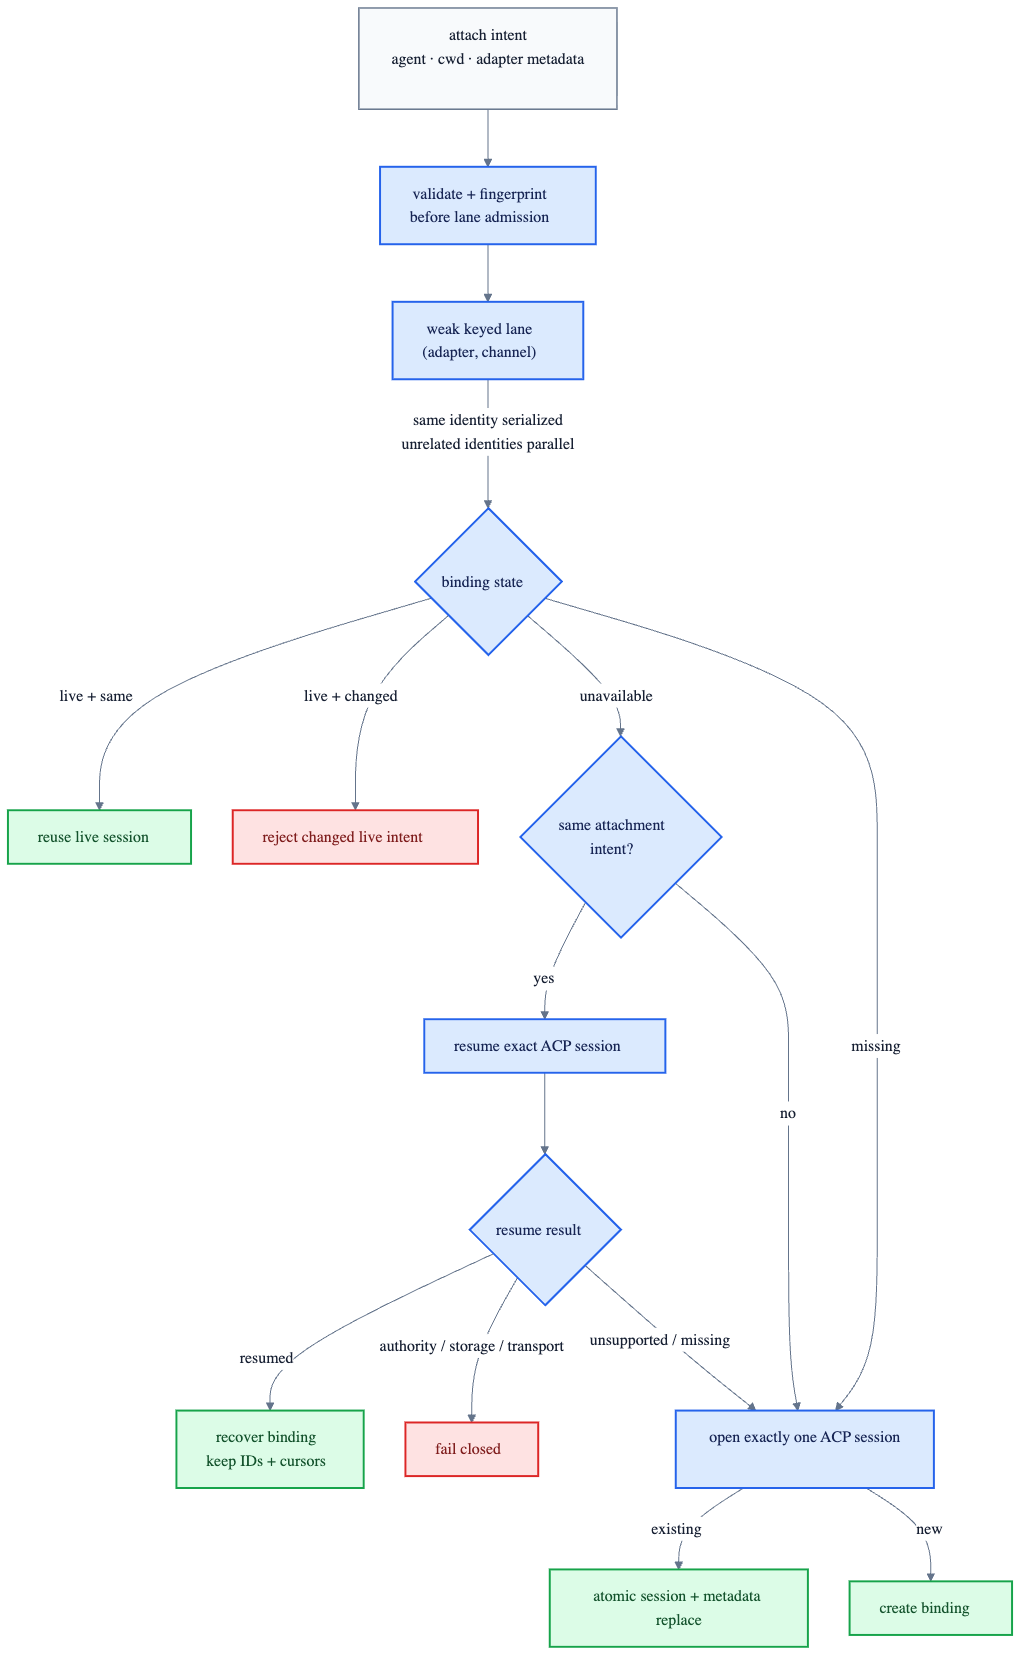
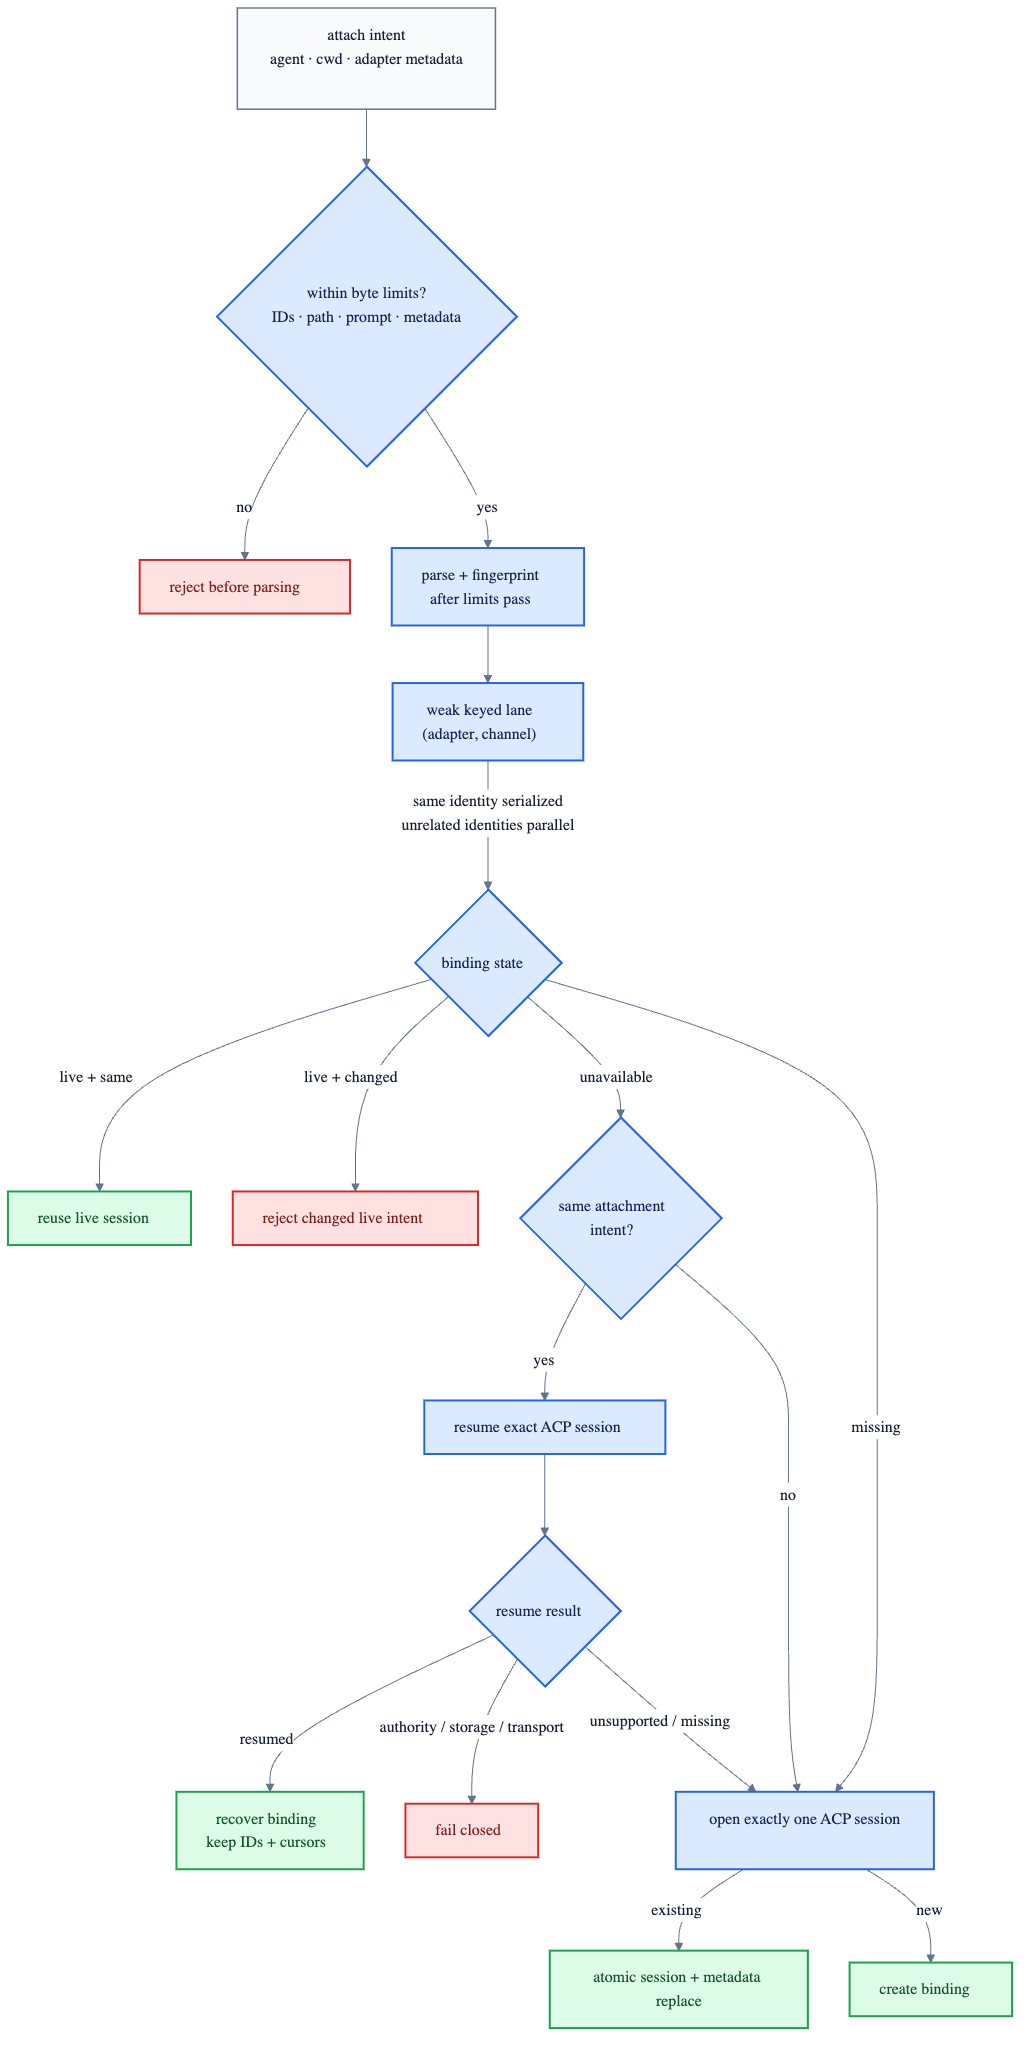
fix(v2): bound channel attachment ingress

diff --git a/v2/channel-gateway/implementation/src/lib.rs b/v2/channel-gateway/implementation/src/lib.rs
@@ -20,6 +20,12 @@ use tokio::sync::{Mutex, OwnedMutexGuard};
 
 use generated::{AgentHostImport, NativeChannelImport};
 
+const MAX_ATTACHMENT_IDENTIFIER_BYTES: usize = 256;
+const MAX_WORKING_DIRECTORY_BYTES: usize = 4 * 1024;
+const MAX_SESSION_METADATA_BYTES: usize = 64 * 1024;
+const MAX_NATIVE_CHANNEL_METADATA_BYTES: usize = 64 * 1024;
+const MAX_BOOTSTRAP_PROMPT_BYTES: usize = 2 * 1024 * 1024;
+
 /// Stateless lifecycle owner waiting for composition-selected imports.
 pub struct ChannelGateway {
     agent_host: AgentHostImport,
@@ -244,10 +250,18 @@ impl AttachmentLocks {
 }
 
 fn attachment_envelope(request: &AttachChannelRequest) -> Result<String, ChannelGatewayError> {
-    if request.channel_id.trim().is_empty()
-        || request.adapter_id.trim().is_empty()
-        || request.agent_id.trim().is_empty()
+    if !valid_identifier(&request.channel_id)
+        || !valid_identifier(&request.adapter_id)
+        || !valid_identifier(&request.agent_id)
+        || request.working_directory.trim().is_empty()
+        || request.working_directory.len() > MAX_WORKING_DIRECTORY_BYTES
         || !Path::new(&request.working_directory).is_absolute()
+        || request
+            .bootstrap_prompt
+            .as_ref()
+            .is_some_and(|prompt| prompt.len() > MAX_BOOTSTRAP_PROMPT_BYTES)
+        || request.session_metadata_json.len() > MAX_SESSION_METADATA_BYTES
+        || request.native_channel_json.len() > MAX_NATIVE_CHANNEL_METADATA_BYTES
     {
         return Err(ChannelGatewayError::InvalidRequest);
     }
@@ -272,6 +286,10 @@ fn attachment_envelope(request: &AttachChannelRequest) -> Result<String, Channel
         "crabAttachment": {"schema": 1, "fingerprint": fingerprint},
     }))
     .map_err(|_| ChannelGatewayError::InvalidRequest)
+}
+
+fn valid_identifier(value: &str) -> bool {
+    !value.trim().is_empty() && value.len() <= MAX_ATTACHMENT_IDENTIFIER_BYTES
 }
 
 fn attachment(
@@ -328,7 +346,12 @@ mod tests {
     use boxology_contract::CapabilityId;
     use tokio::time::timeout;
 
-    use super::{AttachmentLocks, generated};
+    use super::{
+        AttachChannelRequest, AttachmentLocks, ChannelGatewayError,
+        MAX_ATTACHMENT_IDENTIFIER_BYTES, MAX_BOOTSTRAP_PROMPT_BYTES,
+        MAX_NATIVE_CHANNEL_METADATA_BYTES, MAX_SESSION_METADATA_BYTES, MAX_WORKING_DIRECTORY_BYTES,
+        attachment_envelope, generated,
+    };
 
     #[test]
     fn contract_exposes_only_idempotent_attachment() {
@@ -379,5 +402,82 @@ mod tests {
         let fresh = locks.lock("t3code", "fresh").await;
         assert_eq!(locks.len(), 1);
         drop(fresh);
+    }
+
+    #[test]
+    fn attachment_admission_accepts_exact_field_limits() {
+        let request = AttachChannelRequest {
+            channel_id: "c".repeat(MAX_ATTACHMENT_IDENTIFIER_BYTES),
+            adapter_id: "a".repeat(MAX_ATTACHMENT_IDENTIFIER_BYTES),
+            agent_id: "g".repeat(MAX_ATTACHMENT_IDENTIFIER_BYTES),
+            working_directory: format!("/{}", "w".repeat(MAX_WORKING_DIRECTORY_BYTES - 1)),
+            bootstrap_prompt: Some("p".repeat(MAX_BOOTSTRAP_PROMPT_BYTES)),
+            session_metadata_json: object_json_with_len(MAX_SESSION_METADATA_BYTES),
+            native_channel_json: object_json_with_len(MAX_NATIVE_CHANNEL_METADATA_BYTES),
+        };
+
+        attachment_envelope(&request).expect("exact byte limits are admitted");
+    }
+
+    #[test]
+    fn attachment_admission_rejects_each_oversized_field() {
+        let request = valid_request();
+        let cases = [
+            AttachChannelRequest {
+                channel_id: "c".repeat(MAX_ATTACHMENT_IDENTIFIER_BYTES + 1),
+                ..request.clone()
+            },
+            AttachChannelRequest {
+                adapter_id: "a".repeat(MAX_ATTACHMENT_IDENTIFIER_BYTES + 1),
+                ..request.clone()
+            },
+            AttachChannelRequest {
+                agent_id: "g".repeat(MAX_ATTACHMENT_IDENTIFIER_BYTES + 1),
+                ..request.clone()
+            },
+            AttachChannelRequest {
+                working_directory: format!("/{}", "w".repeat(MAX_WORKING_DIRECTORY_BYTES)),
+                ..request.clone()
+            },
+            AttachChannelRequest {
+                bootstrap_prompt: Some("p".repeat(MAX_BOOTSTRAP_PROMPT_BYTES + 1)),
+                ..request.clone()
+            },
+            AttachChannelRequest {
+                session_metadata_json: object_json_with_len(MAX_SESSION_METADATA_BYTES + 1),
+                ..request.clone()
+            },
+            AttachChannelRequest {
+                native_channel_json: object_json_with_len(MAX_NATIVE_CHANNEL_METADATA_BYTES + 1),
+                ..request
+            },
+        ];
+
+        for oversized in cases {
+            assert_eq!(
+                attachment_envelope(&oversized),
+                Err(ChannelGatewayError::InvalidRequest)
+            );
+        }
+    }
+
+    fn valid_request() -> AttachChannelRequest {
+        AttachChannelRequest {
+            channel_id: "channel".into(),
+            adapter_id: "adapter".into(),
+            agent_id: "agent".into(),
+            working_directory: "/workspace".into(),
+            bootstrap_prompt: None,
+            session_metadata_json: "{}".into(),
+            native_channel_json: "{}".into(),
+        }
+    }
+
+    fn object_json_with_len(len: usize) -> String {
+        let mut value = String::from(r#"{"value":""#);
+        value.extend(std::iter::repeat_n('x', len - value.len() - 2));
+        value.push_str(r#""}"#);
+        assert_eq!(value.len(), len);
+        value
     }
 }

diff --git a/v2/README.md b/v2/README.md
@@ -85,8 +85,9 @@ interrupt as a separate explicit action.
   reuses a matching live binding, resumes matching unavailable sessions before replacement, and
   rejects changed intent while a session is live. Attachment lifecycles serialize only for the
   same adapter/channel identity; unrelated channels proceed concurrently and idle weak lock entries
-  prune themselves. Only explicit resume unavailability falls back to replacement; hard recovery
-  failures stay visible. See the
+  prune themselves. It bounds every identifier, path, prompt and metadata field before JSON parsing,
+  fingerprinting, lane admission or imported calls. Only explicit resume unavailability falls back
+  to replacement; hard recovery failures stay visible. See the
   [rendered attach flow](docs/channel-gateway-flow.png).
 - `bridge-host` supervises agent-installed JSON-lines packages, brokers private file-backed
   credentials, actively probes health and credential validity, and applies bounded restart
